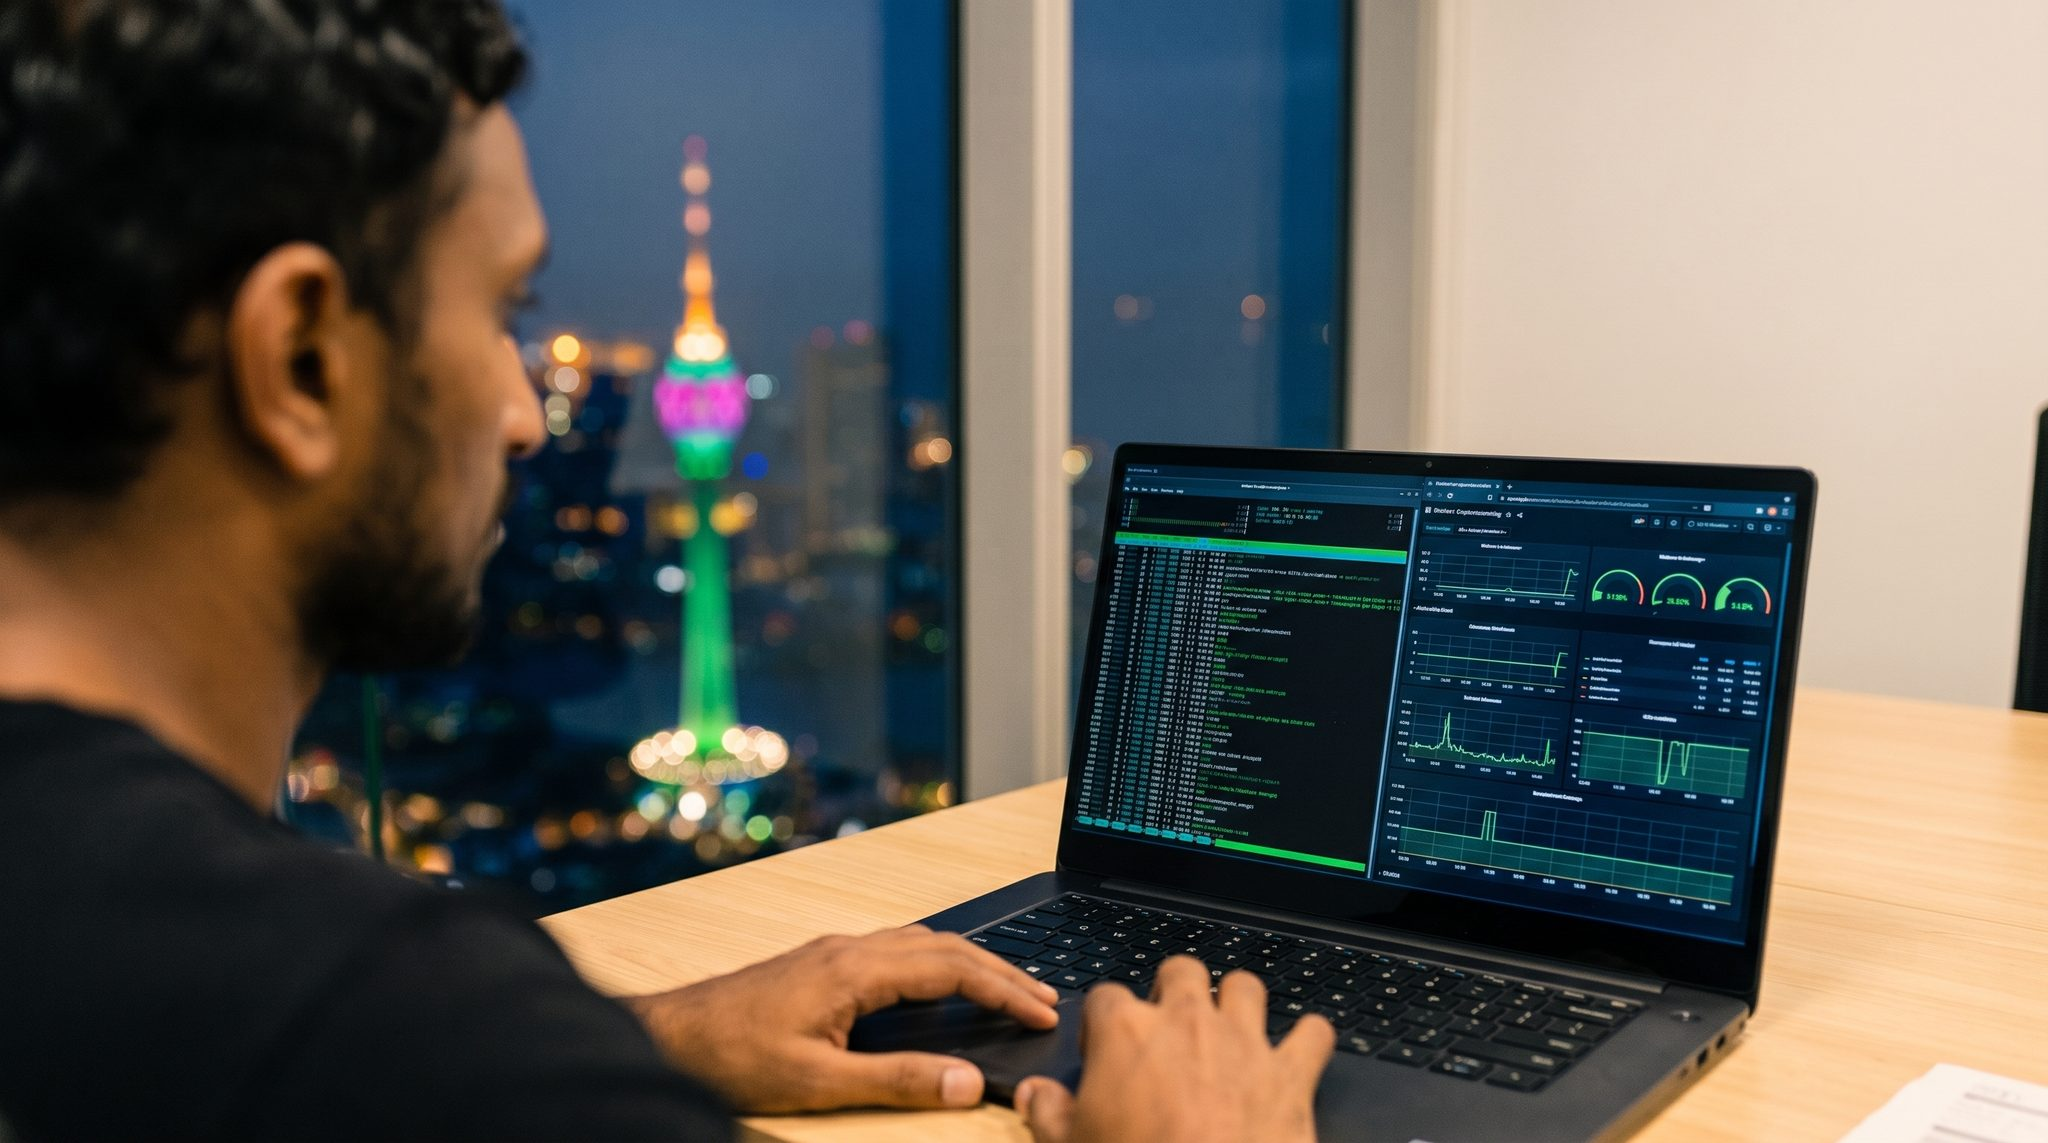
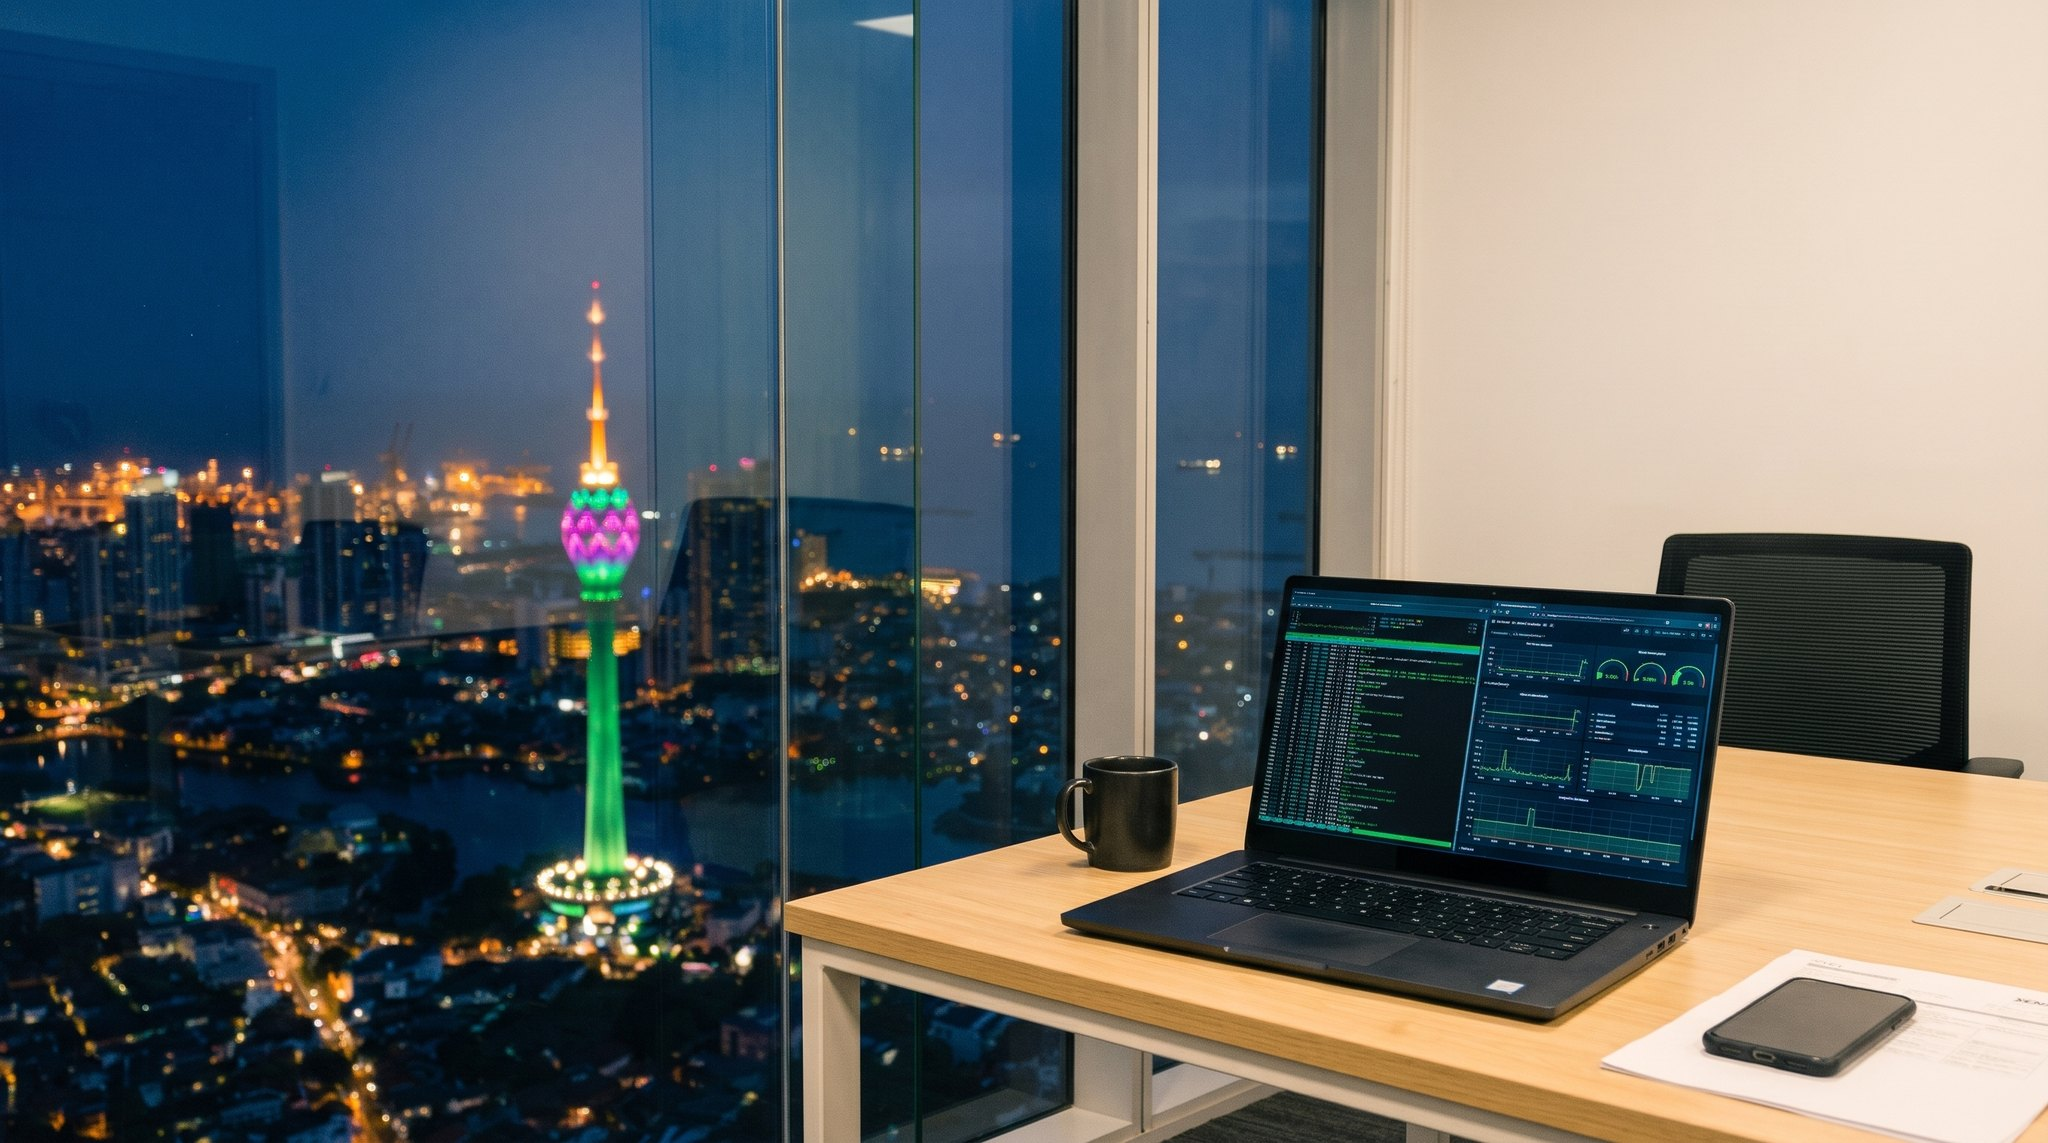
New stills without Yohan for 23:40, 03:00 and dawn; clip 04 paused until remade

diff --git a/src/components/journey/PhotoScene.tsx b/src/components/journey/PhotoScene.tsx
@@ -32,11 +32,11 @@ const CUTS: Cut[] = [
 
 /** Real video for a transition (start frame = still i, end frame = still i+1). Add the number as clips arrive. */
 // Video only where he is not on screen: 01 city -> tower, 04 screen -> data centre, 05 aisle -> sunrise.
-const CLIPS = new Set<number>([0, 3, 4]);
+const CLIPS = new Set<number>([0, 4]); // 04 (laptop -> data centre) comes back once remade from the new K03
 const clipUrl = (i: number) => `/media/web/clips/${String(i + 1).padStart(2, "0")}.mp4`;
 
 // Where the subject sits horizontally, used to crop sensibly on tall (phone) screens.
-const FOCUS_X = [0.5, 0.6, 0.74, 0.68, 0.5, 0.5, 0.52, 0.72, 0.42, 0.5, 0.74];
+const FOCUS_X = [0.5, 0.6, 0.74, 0.65, 0.5, 0.5, 0.55, 0.4, 0.42, 0.5, 0.74];
 
 // The still each chapter holds on: cover, glance, WSO2, PageRewind, open source, projects, experience, toolbox, contact.
 const HOLD = [2, 3, 5, 6, 7, 8, 9, 10, 10.6];
